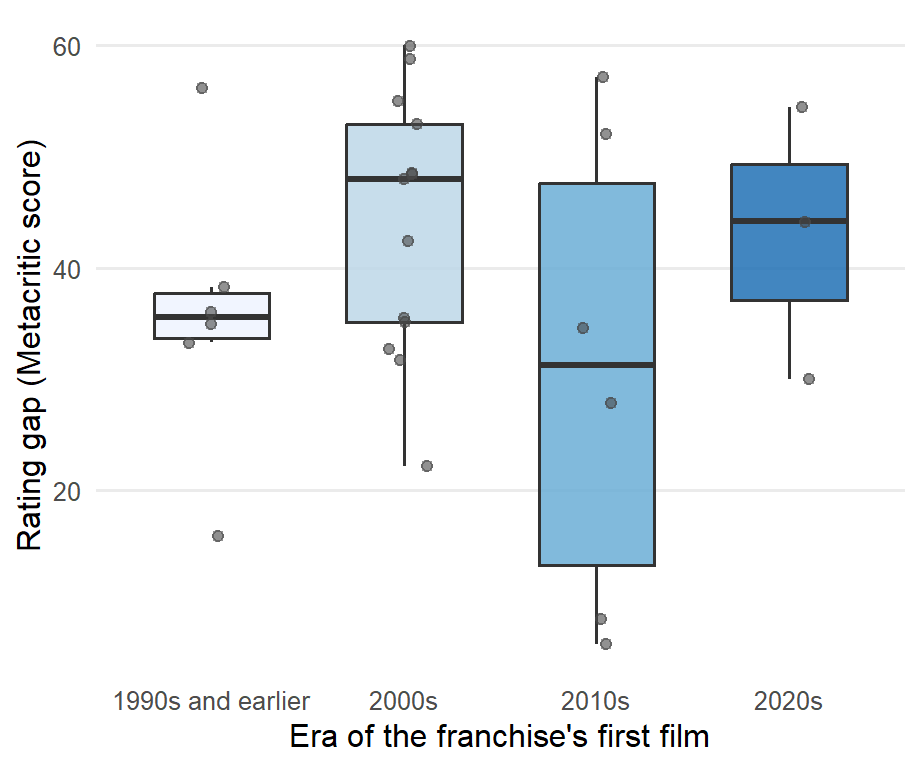
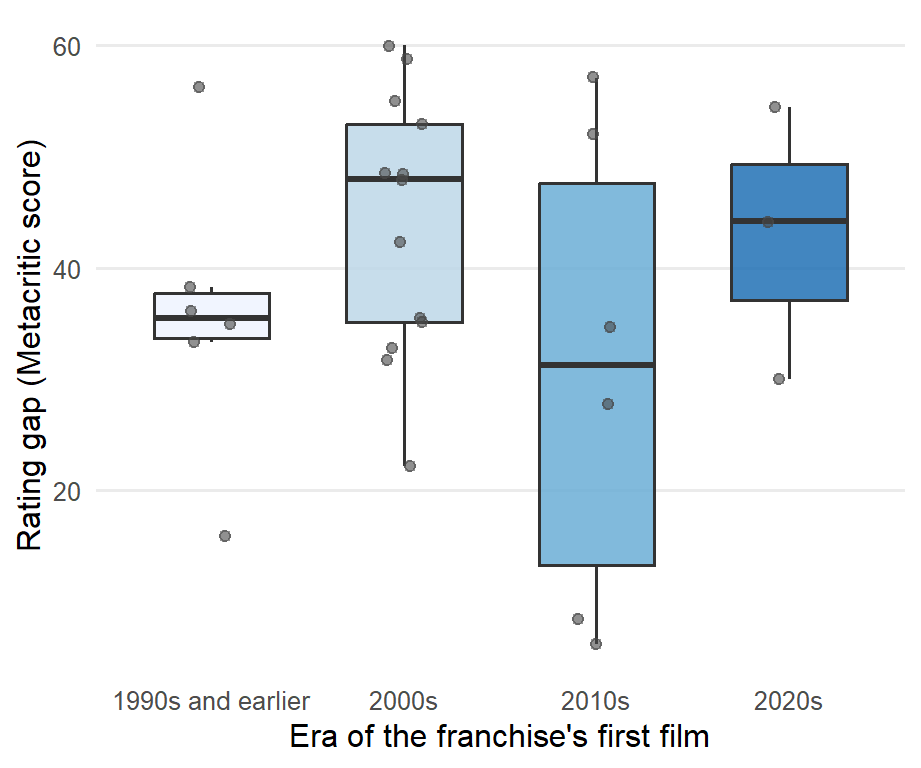
Built site for gh-pages

diff --git a/presentation.html b/presentation.html
@@ -9,7 +9,7 @@
 <link href="site_libs/quarto-html/quarto-syntax-highlighting-7f8f88aac4f3542376d5c11b86a4c14d.css" rel="stylesheet" id="quarto-text-highlighting-styles"><meta charset="utf-8">
   <meta name="generator" content="quarto-1.9.37">
 
-  <meta name="author" content="Pascal Muellner">
+  <meta name="author" content="Pascal Muellner https://youtu.be/pmzR2FUBvkQ">
   <title>Final Project – When Games Hit the Big Screen</title>
   <meta name="apple-mobile-web-app-capable" content="yes">
   <meta name="apple-mobile-web-app-status-bar-style" content="black-translucent">
@@ -136,7 +136,7 @@
 <div class="quarto-title-authors">
 <div class="quarto-title-author">
 <div class="quarto-title-author-name">
-Pascal Muellner 
+Pascal Muellner<br><a href="https://youtu.be/pmzR2FUBvkQ">https://youtu.be/pmzR2FUBvkQ</a> 
 </div>
 </div>
 </div>

diff --git a/about.html b/about.html
@@ -276,7 +276,7 @@ ul.task-list li input[type="checkbox"] {
 </ul>
             <ul class="navbar-nav navbar-nav-scroll ms-auto">
   <li class="nav-item compact">
-    <a class="nav-link" href="https://github.com/INFO-526-SU26/final-project-pascal-arizona"> <i class="bi bi-github" role="img">
+    <a class="nav-link" href="https://github.com/INFO-526-SU26/final-site-pascal-arizona"> <i class="bi bi-github" role="img">
 </i> 
 <span class="menu-text"></span></a>
   </li>  

diff --git a/proposal.html b/proposal.html
@@ -4236,7 +4236,7 @@ vertical-align: -.125em;
 </ul>
             <ul class="navbar-nav navbar-nav-scroll ms-auto">
   <li class="nav-item compact">
-    <a class="nav-link" href="https://github.com/INFO-526-SU26/final-project-pascal-arizona"> <i class="bi bi-github" role="img">
+    <a class="nav-link" href="https://github.com/INFO-526-SU26/final-site-pascal-arizona"> <i class="bi bi-github" role="img">
 </i> 
 <span class="menu-text"></span></a>
   </li>  